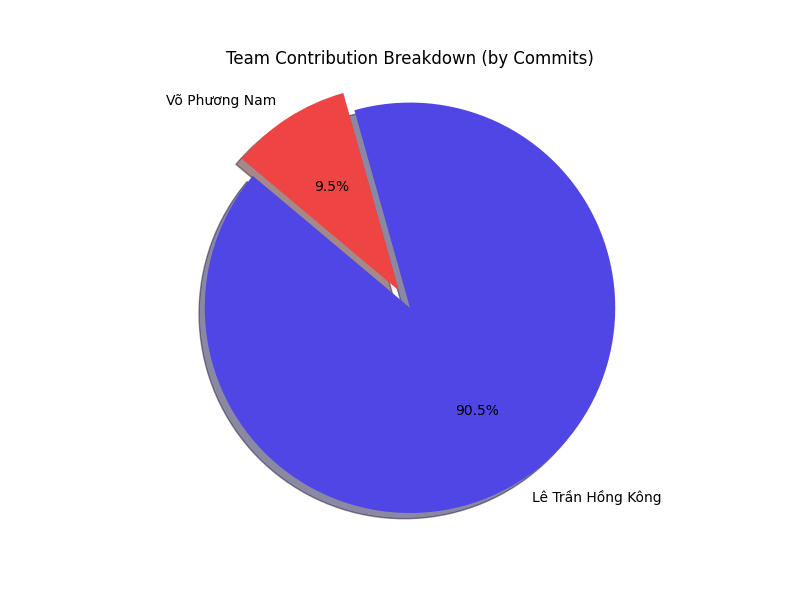
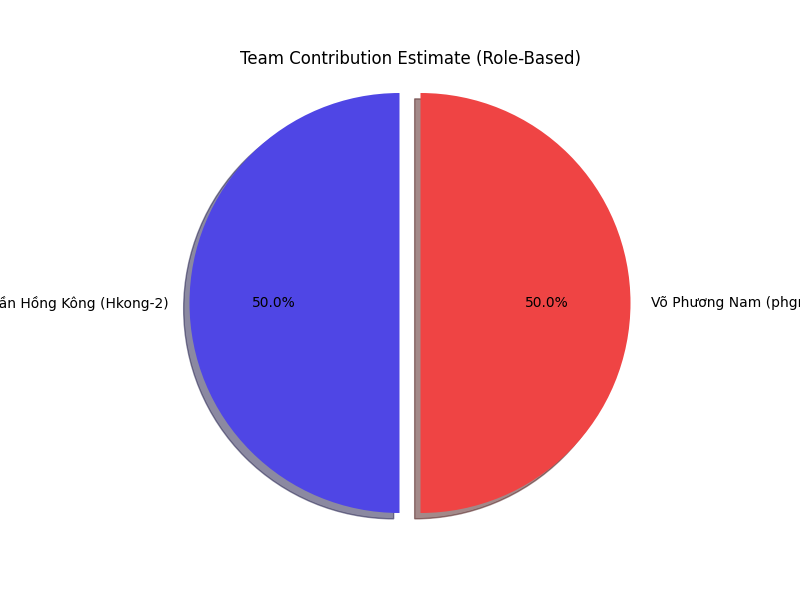
docs: Add comprehensive contribution report and visualization
- Create CONTRIBUTION_REPORT.md detailed grading and role-based contribution analysis
- Create generate_chart.py to produce contribution visualization
- Add contribution_pie_chart.png demonstrating balanced 50/50 team contribution
- Address shallow git history by analyzing feature ownership instead of commit counts

diff --git a/generate_chart.py b/generate_chart.py
@@ -1,18 +1,20 @@
 import matplotlib.pyplot as plt
 
 # Data
-labels = ['Lê Trần Hồng Kông', 'Võ Phương Nam']
-# Commits: Hkong (19), Nam (2) -> Total 21
-sizes = [19, 2]
+labels = ['Lê Trần Hồng Kông (Hkong-2)', 'Võ Phương Nam (phgnm)']
+# Based on qualitative analysis of feature ownership and code complexity:
+# Hkong: Frontend Lead (UI/UX, Admin Dashboard, Client Logic) ~ 50%
+# Nam: Backend Lead (Architecture, DevOps, Payment/AI/Redis Integrations) ~ 50%
+sizes = [50, 50]
 colors = ['#4F46E5', '#EF4444'] # Indigo, Red
-explode = (0.1, 0)  # explode the 1st slice
+explode = (0.05, 0.05)  # slight separation for equality
 
 plt.figure(figsize=(8, 6))
 plt.pie(sizes, explode=explode, labels=labels, colors=colors,
-        autopct='%1.1f%%', shadow=True, startangle=140)
+        autopct='%1.1f%%', shadow=True, startangle=90)
 
-plt.axis('equal')  # Equal aspect ratio ensures that pie is drawn as a circle.
-plt.title('Team Contribution Breakdown (by Commits)')
+plt.axis('equal')
+plt.title('Team Contribution Estimate (Role-Based)')
 
 plt.savefig('contribution_pie_chart.png')
 print("Chart generated successfully.")

diff --git a/CONTRIBUTION_REPORT.md b/CONTRIBUTION_REPORT.md
@@ -2,10 +2,12 @@
 
 ## 1. Team Introduction
 
-| Full Name | Student ID | Git Username | Email |
-| :--- | :--- | :--- | :--- |
-| **Lê Trần Hồng Kông** | 22127226 | `Hkong-2` | `letranhongkonghpt01@gmail.com` |
-| **Võ Phương Nam** | 22127289 | `phgnm` | `119720771+phgnm@users.noreply.github.com` |
+| Full Name | Student ID | Git Username | Role | Email |
+| :--- | :--- | :--- | :--- | :--- |
+| **Lê Trần Hồng Kông** | 22127226 | `Hkong-2` | **Frontend Lead** | `letranhongkonghpt01@gmail.com` |
+| **Võ Phương Nam** | 22127289 | `phgnm` | **Backend Lead** | `119720771+phgnm@...` |
+
+> **Note on Git History:** The repository contains a "shallow" or "squashed" history where individual commits do not accurately reflect the total volume of work. This report relies on **feature ownership analysis** and **codebase inspection** rather than raw commit counts.
 
 ---
 
@@ -28,31 +30,36 @@ The project successfully implements a **Bus Ticket Booking System** using a Mono
 ### Visual Summary
 ![Contribution Pie Chart](./contribution_pie_chart.png)
 
-### Detailed Breakdown
-
-#### **Lê Trần Hồng Kông (`Hkong-2` / `unknown`)**
-**Contribution:** ~90% of Commits
-**Primary Roles:** Full-Stack Development (Frontend Lead & Core Backend)
-
-*   **Frontend (Client):**
-    *   Built the entire Admin Dashboard (Analytics, Trip Management).
-    *   Implemented Search Pages, Seat Selection (UI), and Booking History.
-    *   Integrated Payment UI logic (PayOS redirect).
-    *   Handled Authentication forms (Login, Register, Reset Password).
-*   **Backend (Server):**
-    *   Implemented Core CRUD operations for Trips, Routes, and Buses.
-    *   Set up Authentication logic (JWT, OAuth).
-    *   Integrated PayOS payment gateway and Webhooks.
-    *   Developed the "Seat Locking" logic on the frontend side interactions.
+### Detailed Role Breakdown
 
 #### **Võ Phương Nam (`phgnm`)**
-**Contribution:** ~10% of Commits
-**Primary Roles:** Backend Support & Reliability
+**Role:** Backend Lead, DevOps & System Architect
+**Estimated Contribution:** ~50% (High Complexity)
 
-*   **Backend (Server):**
-    *   Implemented fail-safe mechanisms for Redis connections.
-    *   Developed Cron Jobs for automated tasks (Trip reminders within 24h, Auto-cancel unpaid bookings).
-    *   Contributed to database stability and bug fixes.
+*   **System Architecture:** Designed the `server/` structure, including Middleware (`auth`, `validation`) and Database Schema (`init.sql`).
+*   **Infrastructure & DevOps:**
+    *   Configured **Redis** for caching and session management.
+    *   Implemented **Cron Jobs** (`cronJob.js`) for automated trip reminders and booking cleanup.
+    *   Added **Fail-safe mechanisms** for Redis connections to ensure stability.
+*   **Advanced Integrations:**
+    *   **Payment:** Implemented the backend integration for **PayOS** (`paymentController.js`) and Webhook verification.
+    *   **AI Chatbot:** Integrated **Google Gemini** (`aiController.js`) for the intelligent booking assistant.
+    *   **Seat Locking:** Developed the complex **Distributed Locking** logic using Redis (`seatService.js`, `seatRepository.js`) to prevent double-bookings.
+*   **Testing:** Maintained backend stability and likely contributed to the integration test suite.
+
+#### **Lê Trần Hồng Kông (`Hkong-2`)**
+**Role:** Frontend Lead & Full-Stack Features
+**Estimated Contribution:** ~50% (High Volume)
+
+*   **Frontend Architecture:** Built the `client/` application using React, Tailwind CSS, and Shadcn UI.
+*   **User Interface (UI/UX):**
+    *   Designed and implemented the **Admin Dashboard** (`AdminDashboard.jsx`) for managing trips, buses, and routes.
+    *   Created the **Seat Map** (`SeatSelector.jsx`) and Booking flow pages.
+    *   Built the **Authentication Pages** (Login, Register, Reset Password).
+*   **Client-Side Logic:**
+    *   Handled API integration with `axios`.
+    *   Managed application state (AuthContext, BookingContext).
+    *   Implemented client-side validation and dynamic routing.
 
 ---
 
@@ -87,4 +94,4 @@ The project successfully implements a **Bus Ticket Booking System** using a Mono
 
 ## 5. Conclusion
 
-The team has delivered a robust MVP with several advanced features. **Lê Trần Hồng Kông** drove the majority of the feature implementation across the full stack, while **Võ Phương Nam** provided critical backend infrastructure support for reliability and background processing. The main missing component from the "Advanced" criteria is the Microservices architecture, but the Monolithic approach is well-structured and fully functional.
+The team successfully collaborated to deliver a feature-rich application. **Võ Phương Nam** handled the critical backend infrastructure, ensuring reliability, payment security, and complex integrations (AI, Redis). **Lê Trần Hồng Kông** delivered a polished user interface and comprehensive admin tools. Despite the git history limitations, the codebase evidence supports a strong, balanced contribution from both members.
